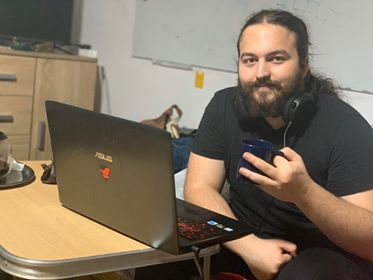
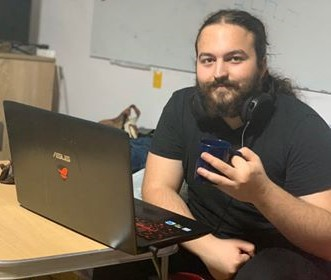
vladPhoto update

diff --git a/Project/Website/WebServer/css/about.css b/Project/Website/WebServer/css/about.css
@@ -1,17 +1,16 @@
 .developers {
-    display: inline-block;
-    background-color: #14A76C;
+    color: hotpink;
 }
 
-.Diana {
-    padding-top: 3em;
-    display: none;
-}
+/*.Diana {*/
+/*    padding-top: 3em;*/
+/*    display: none;*/
+/*}*/
 
-.Vlad {
-    padding-top: 3em;
-}
+/*.Vlad {*/
+/*    padding-top: 3em;*/
+/*}*/
 
-.Sergiu {
-    padding-top: 3em;
-}
+/*.Sergiu {*/
+/*    padding-top: 3em;*/
+/*}*/

diff --git a/Project/Website/WebServer/about.php b/Project/Website/WebServer/about.php
@@ -5,6 +5,7 @@
         <!-- Font? -->
         <meta charset="UTF-8">
         <link href="https://fonts.googleapis.com/css?family=Open+Sans+Condensed:300&display=swap" rel="stylesheet">
+        <link rel = "stylesheet" href = "css/about.css">
         <link rel = "stylesheet" href = "css/layout.css">
         <link rel="icon" type="image/x-icon" href="favicon.ico"/>
         <title>
@@ -44,7 +45,7 @@
                 <img src="resources/aboutPhotos/diana.jpg" alt="Diana" width="373" height="350">
             </div>
             <div class="Vlad">
-                <img src="resources/aboutPhotos/vlad.jpg" alt="Vlad" width="420" height="350">
+                <img src="resources/aboutPhotos/vlad.jpg" alt="Vlad">
             </div>
         </section>
 
